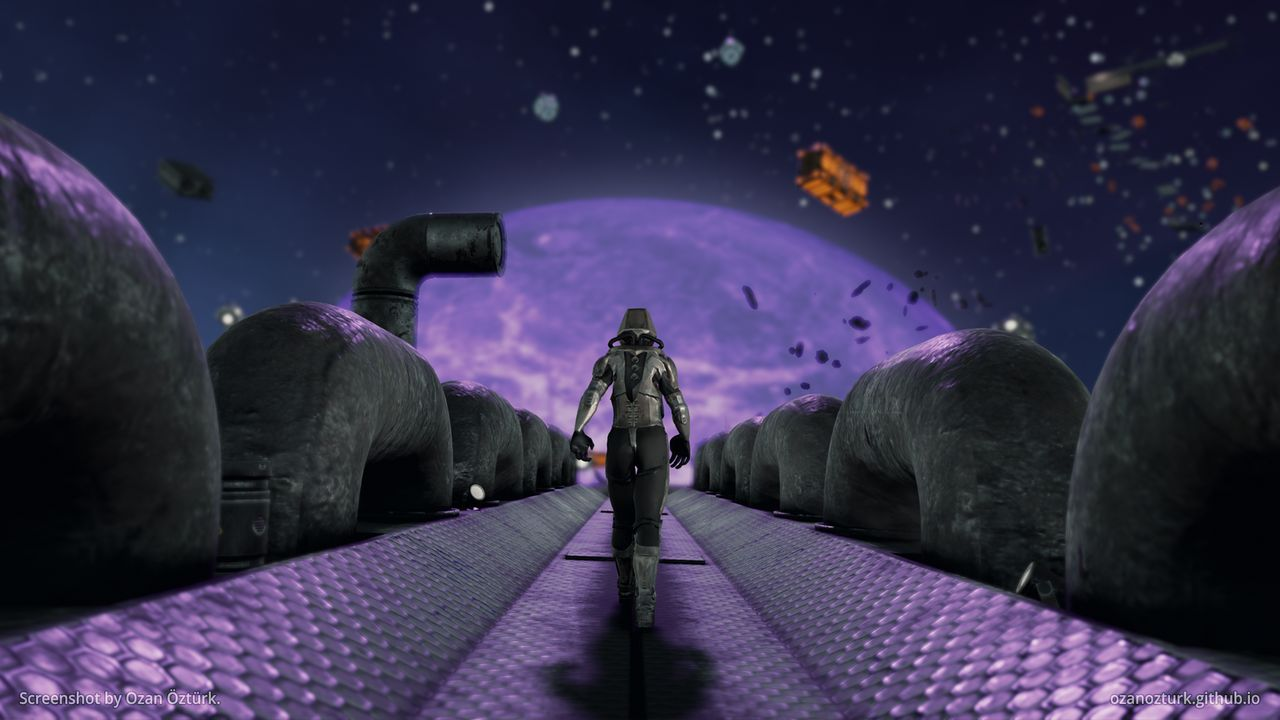
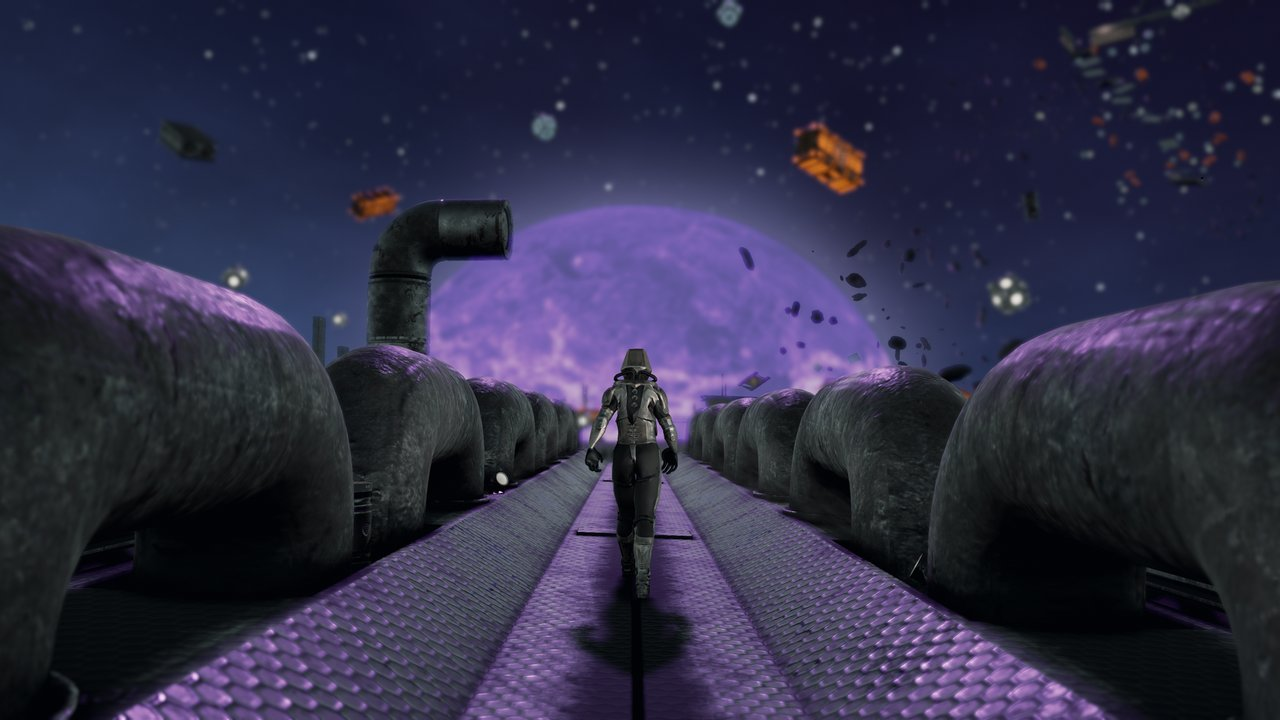
Removed watermark from screenshots

diff --git a/index_backup2.html b/index_backup2.html
@@ -37,7 +37,39 @@
 <!-- /Google Analytics -->
 
 
-  <section class="testimonials4 cid-rmKJ4IfaLK" id="testimonials4-ab">
+  <section class="menu cid-rmKJ4JpXWH" once="menu" id="menu1-ad">
+
+    
+
+    <nav class="navbar navbar-expand beta-menu navbar-dropdown align-items-center navbar-fixed-top navbar-toggleable-sm">
+        <button class="navbar-toggler navbar-toggler-right" type="button" data-toggle="collapse" data-target="#navbarSupportedContent" aria-controls="navbarSupportedContent" aria-expanded="false" aria-label="Toggle navigation">
+            <div class="hamburger">
+                <span></span>
+                <span></span>
+                <span></span>
+                <span></span>
+            </div>
+        </button>
+        <div class="menu-logo">
+            <div class="navbar-brand">
+                
+                <span class="navbar-caption-wrap"><a class="navbar-caption text-white display-7" href="index.html">OZAN ÖZTÜRK<br></a></span>
+            </div>
+        </div>
+        <div class="collapse navbar-collapse" id="navbarSupportedContent">
+            <ul class="navbar-nav nav-dropdown" data-app-modern-menu="true"><li class="nav-item dropdown open">
+                    <a class="nav-link link dropdown-toggle text-white display-4" href="index.html#header6-4" data-toggle="dropdown-submenu" aria-expanded="true"><span class="mbrib-rocket mbr-iconfont mbr-iconfont-btn"></span>
+                        
+                        PROJECTS</a><div class="dropdown-menu"><a class="dropdown-item text-white display-4" href="heart_drive.html">HEART_DRIVE</a><a class="dropdown-item text-white display-4" href="lame.html">L.A.M.E.</a><a class="dropdown-item text-white display-4" href="appetite.html">Appetite</a><a class="dropdown-item text-white display-4" href="schacht.html">Schacht</a><a class="dropdown-item text-white display-4" href="what-the-cluck.html">What the Cluck</a><a class="dropdown-item text-white display-4" href="mercedes-benz.html">Mercedes-Benz</a><a class="dropdown-item text-white display-4" href="https://www.glars.eu/" target="_blank">GLARS</a><a class="dropdown-item text-white display-4" href="twin-sprouts.html">Twin Sprouts</a><a class="text-white dropdown-item display-4" href="super-combat-high.html" aria-expanded="false">Super Combat High</a></div>
+                </li></ul>
+            <div class="navbar-buttons mbr-section-btn"><a class="btn btn-sm btn-white-outline display-4" href="mailto:ozturkozan02@gmail.com"><span class="mbrib-letter mbr-iconfont mbr-iconfont-btn"></span>
+                    
+                    CONTACT</a></div>
+        </div>
+    </nav>
+</section>
+
+<section class="engine"><a href="https://mobirise.me/b">how to create a website for free</a></section><section class="testimonials4 cid-rmKJ4IfaLK" id="testimonials4-ab">
 
   
 
@@ -70,7 +102,7 @@
   </div>
 </section>
 
-<section class="engine"><a href="https://mobirise.me/d">free web maker</a></section><section class="header3 cid-rmKJ4J1pby mbr-parallax-background" id="header3-ac">
+<section class="header3 cid-rmKJ4J1pby mbr-parallax-background" id="header3-ac">
 
     
 
@@ -96,38 +128,6 @@
         </div>
     </div>
 
-</section>
-
-<section class="menu cid-rmKJ4JpXWH" once="menu" id="menu1-ad">
-
-    
-
-    <nav class="navbar navbar-expand beta-menu navbar-dropdown align-items-center navbar-fixed-top navbar-toggleable-sm">
-        <button class="navbar-toggler navbar-toggler-right" type="button" data-toggle="collapse" data-target="#navbarSupportedContent" aria-controls="navbarSupportedContent" aria-expanded="false" aria-label="Toggle navigation">
-            <div class="hamburger">
-                <span></span>
-                <span></span>
-                <span></span>
-                <span></span>
-            </div>
-        </button>
-        <div class="menu-logo">
-            <div class="navbar-brand">
-                
-                <span class="navbar-caption-wrap"><a class="navbar-caption text-white display-7" href="index.html">OZAN ÖZTÜRK<br></a></span>
-            </div>
-        </div>
-        <div class="collapse navbar-collapse" id="navbarSupportedContent">
-            <ul class="navbar-nav nav-dropdown" data-app-modern-menu="true"><li class="nav-item dropdown open">
-                    <a class="nav-link link dropdown-toggle text-white display-4" href="index.html#header6-4" data-toggle="dropdown-submenu" aria-expanded="true"><span class="mbrib-rocket mbr-iconfont mbr-iconfont-btn"></span>
-                        
-                        PROJECTS</a><div class="dropdown-menu"><a class="dropdown-item text-white display-4" href="heart_drive.html">HEART_DRIVE</a><a class="dropdown-item text-white display-4" href="lame.html">L.A.M.E.</a><a class="dropdown-item text-white display-4" href="appetite.html">Appetite</a><a class="dropdown-item text-white display-4" href="schacht.html">Schacht</a><a class="dropdown-item text-white display-4" href="what-the-cluck.html">What the Cluck</a><a class="dropdown-item text-white display-4" href="mercedes-benz.html">Mercedes-Benz</a><a class="dropdown-item text-white display-4" href="https://www.glars.eu/" target="_blank">GLARS</a><a class="dropdown-item text-white display-4" href="twin-sprouts.html">Twin Sprouts</a><a class="text-white dropdown-item display-4" href="super-combat-high.html" aria-expanded="false">Super Combat High</a></div>
-                </li></ul>
-            <div class="navbar-buttons mbr-section-btn"><a class="btn btn-sm btn-white-outline display-4" href="mailto:ozturkozan02@gmail.com"><span class="mbrib-letter mbr-iconfont mbr-iconfont-btn"></span>
-                    
-                    CONTACT</a></div>
-        </div>
-    </nav>
 </section>
 
 <section class="header3 cid-rmKJ4JLDi6 mbr-parallax-background" id="header3-ae">

diff --git a/index_backup1.html b/index_backup1.html
@@ -37,27 +37,7 @@
 <!-- /Google Analytics -->
 
 
-  <section class="mbr-section article content9 cid-rhzPCvJoLa" id="content9-7p">
-    
-     
-
-    <div class="container">
-        <div class="inner-container" style="width: 80%;">
-            <hr class="line" style="width: 17%;">
-            <div class="section-text align-center mbr-fonts-style display-5">
-                    
-                <div><span style="font-size: 1rem;"></span><br></div><div>Hello, and welcome to my portfolio!</div><br><div>
-</div><div>
-</div><div>I am a <strong>game designer</strong> and <strong>producer </strong>with over four years of&nbsp;<span style="font-size: 1rem;">game development experience.&nbsp;</span></div><div><span style="font-size: 1rem;"><br></span></div><div>
-</div><div>I hold a Master's degree in <strong>Computer Animation &amp; Game Tech</strong> and&nbsp;<span style="font-size: 1rem;">I am currently specializing&nbsp;</span><span style="font-size: 1rem;">further </span></div><div><span style="font-size: 1rem;">in 
-</span><span style="font-size: 1rem;"><strong>Game Design</strong> at <strong>Cologne Game Lab</strong>.&nbsp;</span></div><br><div><span style="font-size: 1rem;">Please scroll down to check out some of the games I worked on below.</span><br></div><div>
-</div></div>
-            <hr class="line" style="width: 17%;">
-        </div>
-        </div>
-</section>
-
-<section class="engine"><a href="https://mobirise.me/m">site design templates</a></section><section class="menu cid-rhzPCwirPH" once="menu" id="menu1-7q">
+  <section class="menu cid-rhzPCwirPH" once="menu" id="menu1-7q">
 
     
 
@@ -87,6 +67,26 @@
                     CONTACT</a></div>
         </div>
     </nav>
+</section>
+
+<section class="engine"><a href="https://mobirise.me/t">free amp templates</a></section><section class="mbr-section article content9 cid-rhzPCvJoLa" id="content9-7p">
+    
+     
+
+    <div class="container">
+        <div class="inner-container" style="width: 80%;">
+            <hr class="line" style="width: 17%;">
+            <div class="section-text align-center mbr-fonts-style display-5">
+                    
+                <div><span style="font-size: 1rem;"></span><br></div><div>Hello, and welcome to my portfolio!</div><br><div>
+</div><div>
+</div><div>I am a <strong>game designer</strong> and <strong>producer </strong>with over four years of&nbsp;<span style="font-size: 1rem;">game development experience.&nbsp;</span></div><div><span style="font-size: 1rem;"><br></span></div><div>
+</div><div>I hold a Master's degree in <strong>Computer Animation &amp; Game Tech</strong> and&nbsp;<span style="font-size: 1rem;">I am currently specializing&nbsp;</span><span style="font-size: 1rem;">further </span></div><div><span style="font-size: 1rem;">in 
+</span><span style="font-size: 1rem;"><strong>Game Design</strong> at <strong>Cologne Game Lab</strong>.&nbsp;</span></div><br><div><span style="font-size: 1rem;">Please scroll down to check out some of the games I worked on below.</span><br></div><div>
+</div></div>
+            <hr class="line" style="width: 17%;">
+        </div>
+        </div>
 </section>
 
 <section class="header3 cid-rhzPCwLGis mbr-parallax-background" id="header3-7r">

diff --git a/index.html b/index.html
@@ -91,7 +91,7 @@
           </div>
           <div class="testimonials-caption col-lg-9 col-md-8">
             <div class="user_text ">
-              <p class="mbr-fonts-style  display-7">Hello, and welcome to my portfolio!<br><br>My name is Ozan. I am a game designer with over four years of experience.<br><br>I hold a Master's degree in Game Technologies and I am currently specializing further in Game Design at the Cologne Game Lab where I also participate in research projects.<br><br>Developing games is my passion, and having experienced the creative process with over 100 individuals from all over the world is my privilege.<br><br>I have so far explored many different facets of game development and learned to work well in conjunction with other disciplines through firsthand experience.<br><br>As a game designer, my interests for further specialization include systems design, in particular the reconcilition of gameplay systems with interactive narratives, and player engagement through in-game rewards and progression.<br><br>You can scroll down below to learn more about some of the collaborative projects I have worked on. If you would like to get in touch, please feel free to drop me a line via&nbsp;<a href="mailto:ozturkozan02@gmail.com" class="text-danger"><strong>e-mail</strong></a>, or on&nbsp;<a href="https://twitter.com/firesyrup" target="_blank" class="text-danger"><strong>Twitter </strong></a>or <a href="https://www.linkedin.com/in/ozan-ozturk/" target="_blank" class="text-danger"><strong>LinkedIn</strong></a>.</p>
+              <p class="mbr-fonts-style  display-7">Hello, and welcome to my portfolio!<br><br>My name is Ozan. I am a game designer with over four years of experience.<br><br>I hold a Master's degree in Game Technologies and I am currently specializing further in Game Design at the Cologne Game Lab where I also participate in research projects. <br><br>Developing games is my passion, and having experienced the creative process with over 100 individuals from all over the world is my privilege.<br><br>I have so far explored many different facets of game development and learned to work well in conjunction with other disciplines through firsthand experience. <br><br>As a game designer, my interests for further specialization include—but are not limited to—systems design, the reconcilition of gameplay systems with interactive narratives, and player engagement through in-game rewards and progression.<br><br>You can scroll down below to learn more about some of the collaborative projects I have worked on. If you would like to get in touch, please feel free to drop me a line via&nbsp;<a href="mailto:ozturkozan02@gmail.com" class="text-danger"><strong>e-mail</strong></a>, or on&nbsp;<a href="https://twitter.com/firesyrup" target="_blank" class="text-danger"><strong>Twitter </strong></a>or <a href="https://www.linkedin.com/in/ozan-ozturk/" target="_blank" class="text-danger"><strong>LinkedIn</strong></a>.</p>
             </div>
             
             

diff --git a/lame.html b/lame.html
@@ -71,7 +71,7 @@
     </nav>
 </section>
 
-<section class="engine"><a href="https://mobirise.me/o">one page website templates</a></section><section class="mbr-section article content1 cid-rmM9bqIGuI" id="content1-ay">
+<section class="engine"><a href="https://mobirise.me/m">free website design templates</a></section><section class="mbr-section article content1 cid-rmM9bqIGuI" id="content1-ay">
     
      
 

diff --git a/twin-sprouts.html b/twin-sprouts.html
@@ -71,7 +71,7 @@
     </nav>
 </section>
 
-<section class="engine"><a href="https://mobirise.me/b">create a site for free</a></section><section class="mbr-section article content1 cid-qQtd5U7zAG" id="content1-2b">
+<section class="engine"><a href="https://mobirise.me/h">create a web page for free</a></section><section class="mbr-section article content1 cid-qQtd5U7zAG" id="content1-2b">
     
      
 

diff --git a/heart_drive.html b/heart_drive.html
@@ -71,7 +71,7 @@
     </nav>
 </section>
 
-<section class="engine"><a href="https://mobirise.me/e">make a site for free</a></section><section class="mbr-section article content1 cid-qZ8dutsVyu" id="content1-4p">
+<section class="engine"><a href="https://mobirise.me/r">free bootstrap template</a></section><section class="mbr-section article content1 cid-qZ8dutsVyu" id="content1-4p">
     
      
 

diff --git a/super-combat-high.html b/super-combat-high.html
@@ -71,7 +71,7 @@
     </nav>
 </section>
 
-<section class="engine"><a href="https://mobirise.me/a">Mobirise review</a></section><section class="mbr-section article content1 cid-qUG1WM5qW0" id="content1-3r">
+<section class="engine"><a href="https://mobirise.me/o">free one page web templates</a></section><section class="mbr-section article content1 cid-qUG1WM5qW0" id="content1-3r">
     
      
 

diff --git a/what-the-cluck.html b/what-the-cluck.html
@@ -71,7 +71,7 @@
     </nav>
 </section>
 
-<section class="engine"><a href="https://mobirise.me/f">easy web maker</a></section><section class="mbr-section article content1 cid-qQgJJLECgr" id="content1-11">
+<section class="engine"><a href="https://mobirise.me/g">build a website for free</a></section><section class="mbr-section article content1 cid-qQgJJLECgr" id="content1-11">
     
      
 

diff --git a/appetite.html b/appetite.html
@@ -71,7 +71,7 @@
     </nav>
 </section>
 
-<section class="engine"><a href="https://mobirise.me/k">develop free website</a></section><section class="mbr-section article content1 cid-r5aJbupWDA" id="content1-6m">
+<section class="engine"><a href="https://mobirise.me/j">website templates</a></section><section class="mbr-section article content1 cid-r5aJbupWDA" id="content1-6m">
     
      
 

diff --git a/schacht.html b/schacht.html
@@ -71,7 +71,7 @@
     </nav>
 </section>
 
-<section class="engine"><a href="https://mobirise.me/x">free css templates</a></section><section class="mbr-section article content1 cid-qQgb2jvf1m" id="content1-m">
+<section class="engine"><a href="https://mobirise.me/s">free bootstrap themes</a></section><section class="mbr-section article content1 cid-qQgb2jvf1m" id="content1-m">
     
      
 

diff --git a/mercedes-benz.html b/mercedes-benz.html
@@ -71,7 +71,7 @@
     </nav>
 </section>
 
-<section class="engine"><a href="https://mobirise.me/b">create a site for free</a></section><section class="mbr-section article content1 cid-qQg8Lc39hY" id="content1-k">
+<section class="engine"><a href="https://mobirise.me/a">Mobirise review</a></section><section class="mbr-section article content1 cid-qQg8Lc39hY" id="content1-k">
     
      
 

diff --git a/page12.html b/page12.html
@@ -69,7 +69,7 @@
     </nav>
 </section>
 
-<section class="engine"><a href="https://mobirise.me/n">landing page html templates</a></section><section class="mbr-section content5 cid-rmTvj5M8or" id="content5-bi">
+<section class="engine"><a href="https://mobirise.me/e">make a website</a></section><section class="mbr-section content5 cid-rmTvj5M8or" id="content5-bi">
 
     
 
